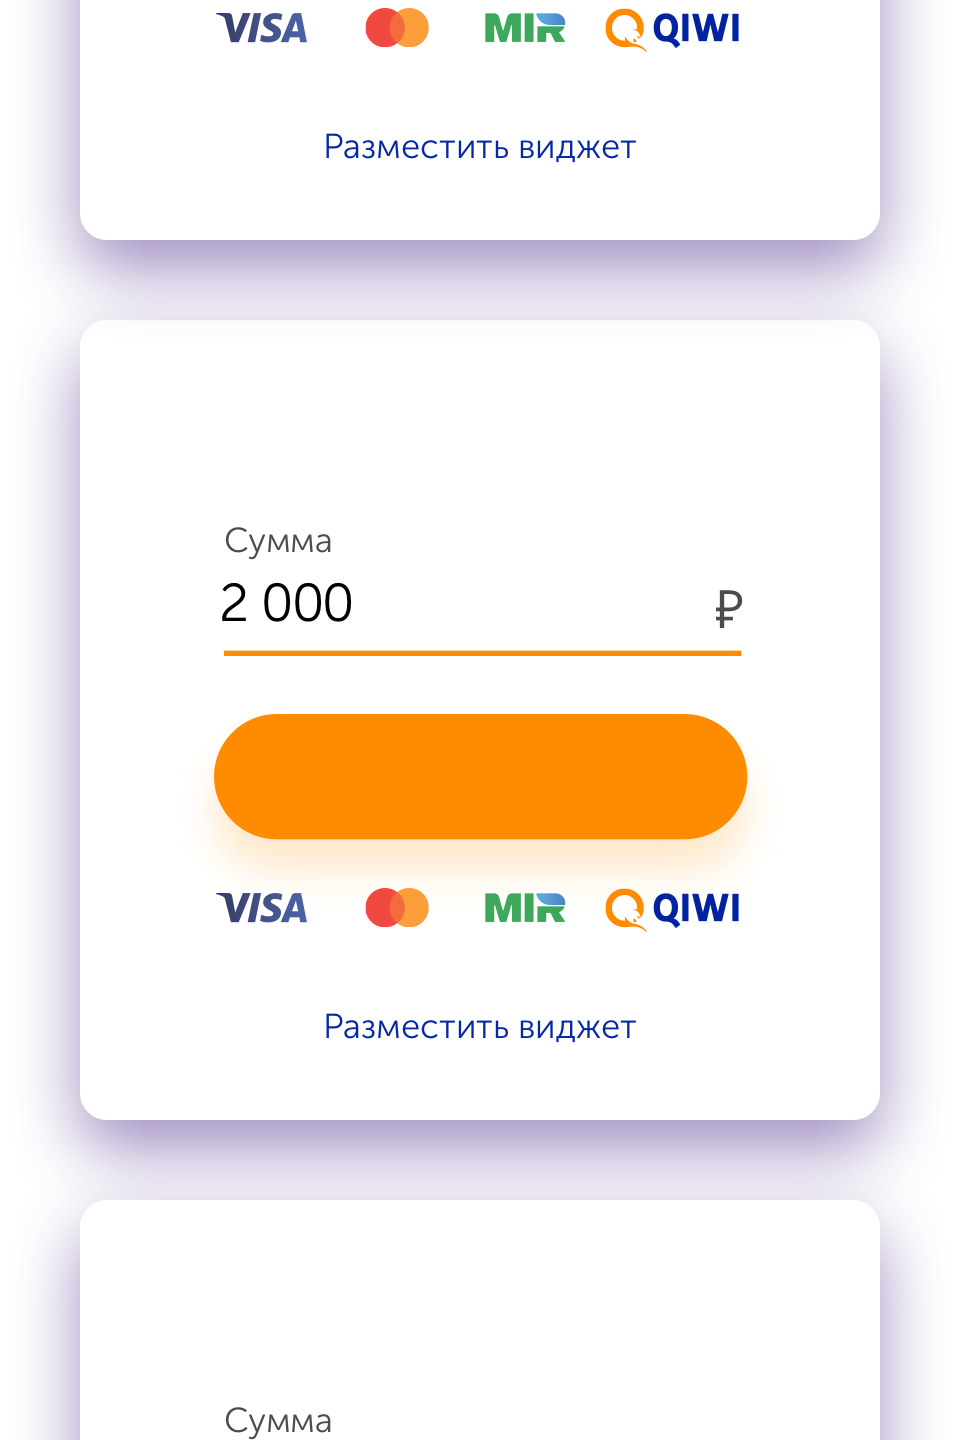
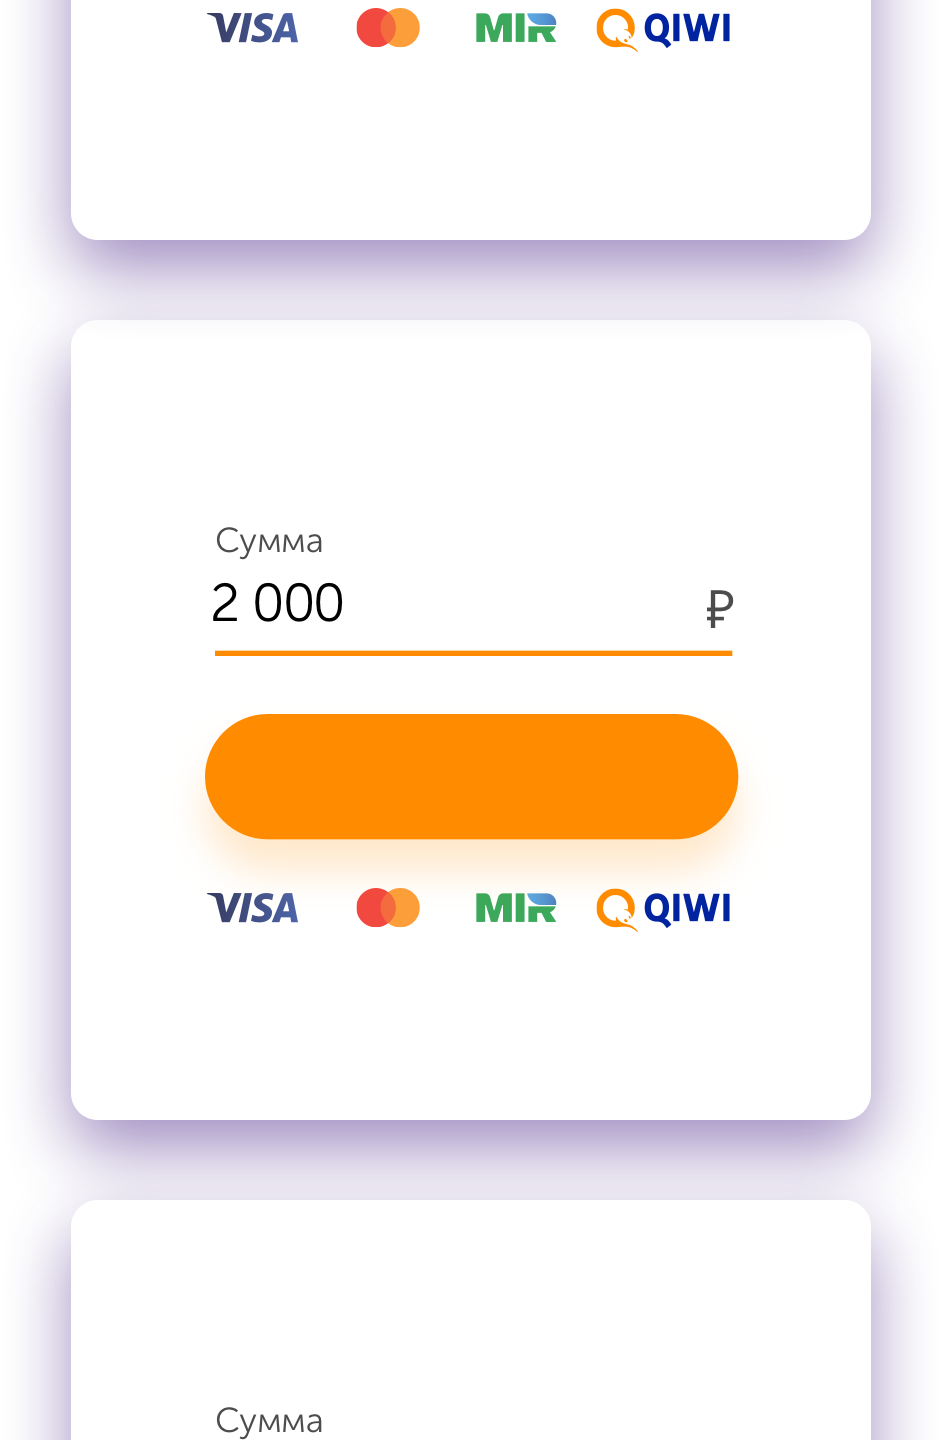
Change link in header, add place for 300x200 widget

diff --git a/src/components/Header/Header.js b/src/components/Header/Header.js
@@ -2,37 +2,69 @@ import { h, Component } from 'preact';
 
 import './Header.scss';
 
-import logo from './assets/qiwi-logo.svg'
-import widgetPic from './assets/widget-pic.png'
+import logo from './assets/qiwi-logo.svg';
+import widgetPic from './assets/widget-pic.png';
 
 /*<a href={'/?public_key='+public_key} class="header__logo"><img src={logo} alt="logo" width="140" height="61" /></a>*/
 
 export default class Header extends Component {
-
-    render({idWidgetsBlock, merchantName, public_key}){
-
+    render({ idWidgetsBlock, merchantName, public_key }) {
         const defaultMerchantName = 'Наименование организации';
 
-        return (<header class="header">
-            <div className="header__gradient-block-top"></div>
-            <div className="header__gradient-block-bottom"></div>
+        return (
+            <header class="header">
+                <div className="header__gradient-block-top" />
+                <div className="header__gradient-block-bottom" />
 
-            <section class="header__call-to-action">
-                <h1 class="header__title">Привлеки своих пользователей, покупателей и читателей к добрым делам!</h1>
-                <p class="header__description">{merchantName?`Размести платежную форму у себя на сайте и поддержи ${merchantName}.`:'Размести платежную форму у себя на сайте и поддержи благотворительность.'}</p>
-                <a href={`#${idWidgetsBlock}`} class="header__action" onClick={() => {
-                    dataLayer.push({
-                        'event': 'to.widgets',
-                        'eventAction': 'Transition to widgets block'
-                    });
-                }}>Разместить виджет</a>
-            </section>
-            <div class="header__illustration">
-                <img src={widgetPic} alt="widgets" width="480" height="720" class="header__widgets-pic"/>
-                <div class="header__widget-title">{ merchantName || defaultMerchantName}</div>
-                <div class="header__widget-button">Помочь</div>
-                <div class="header__widget-title header__widget-title--second">{ merchantName || defaultMerchantName}</div>
-            </div>
-        </header>);
+                <section class="header__call-to-action">
+                    <h1 class="header__title">
+                        Привлеки своих пользователей, покупателей и читателей к
+                        добрым делам!
+                    </h1>
+                    <p class="header__description">
+                        {merchantName
+                            ? `Размести платежную форму у себя на сайте и поддержи ${merchantName}.`
+                            : 'Размести платежную форму у себя на сайте и поддержи благотворительность.'}
+                    </p>
+                    <a
+                        href={`#${idWidgetsBlock}`}
+                        class="header__action"
+                        onClick={() => {
+                            dataLayer.push({
+                                event: 'to.widgets',
+                                eventAction: 'Transition to widgets block'
+                            });
+                        }}>
+                        Разместить виджет
+                    </a>
+                </section>
+                <div class="header__illustration">
+                    <img
+                        src={widgetPic}
+                        alt="widgets"
+                        width="480"
+                        height="720"
+                        class="header__widgets-pic"
+                    />
+                    <div class="header__widget-link header__widget-link--upper">
+                        <a href={'/?public_key=' + public_key}>
+                            У меня есть сайт
+                        </a>
+                    </div>
+                    <div class="header__widget-title">
+                        {merchantName || defaultMerchantName}
+                    </div>
+                    <div class="header__widget-button">Помочь</div>
+                    <div class="header__widget-link header__widget-link--lowwer">
+                        <a href={'/?public_key=' + public_key}>
+                            У меня есть сайт
+                        </a>
+                    </div>
+                    <div class="header__widget-title header__widget-title--second">
+                        {merchantName || defaultMerchantName}
+                    </div>
+                </div>
+            </header>
+        );
     }
 }

diff --git a/src/components/appSettings.js b/src/components/appSettings.js
@@ -10,7 +10,7 @@ export default {
         },{
             id: 'widgets',
             name: 'Виджет',
-            types: [ 'widget728x200', 'widget300x300', 'widget300x180']
+            types: [ 'widget728x200', 'widget300x300', 'widget300x200']
         }, {
             id: 'buttons',
             name: 'Кнопка',
@@ -28,7 +28,7 @@ export default {
         }, {
             title: 'Небольшой виджет',
             desc: 'Подходит для размещения после информации по теме. Есть в двух размерах — выбирайте, какой будет лучше смотреться на сайте!',
-            types: ['widget300x300', 'widget300x180']
+            types: ['widget300x300', 'widget300x200']
         }, {
             title: 'Кнопка',
             desc: 'Подходит, если вы делаете отдельную страничку или блок, рассказывающий о фонде. В конце вы можете разместить  кнопку, ведущую на платежную форму. Есть в трех размерах.',
@@ -72,12 +72,12 @@ export default {
                 title: '',
                 form: 'link'
             },
-            'widget300x180': {
-                name: '300px x 180px',
-                link: 'widgets/small-widget-300x180',
+            'widget300x200': {
+                name: '300px x 200px',
+                link: 'widgets/small-widget-300x200',
                 transparent: false,
-                title: '300 px x 180 px',
-                height: 180,
+                title: '300 px x 200 px',
+                height: 200,
                 width: 300,
                 form: 'widget',
                 params: {

diff --git a/src/components/Header/Header.scss b/src/components/Header/Header.scss
@@ -66,6 +66,7 @@
     }
 }
 
+
 .header__description {
     margin: 9px 0 0;
     padding: 0;
@@ -180,4 +181,31 @@
     top: 375px;
     left: 40px;
     right: 40px;
+}
+
+.header__widget-link {
+    z-index: 3;
+    font-family: "Museo","Helvetica Neue","Helvetica","Arial",sans-serif;
+    font-size: 17px;
+    font-weight: 300;
+    text-align: center;    
+    margin: 0 auto;
+    position: absolute;
+    top: 504px;
+    left: 40px;
+    right: 40px;
+
+    & a {
+        text-decoration: none;
+        color: #0629a3;
+    }
+
+    &--lowwer {
+        top: 504px;
+    }
+
+    &--upper {
+        top: 64px;
+        z-index: 1;
+    }
 }
